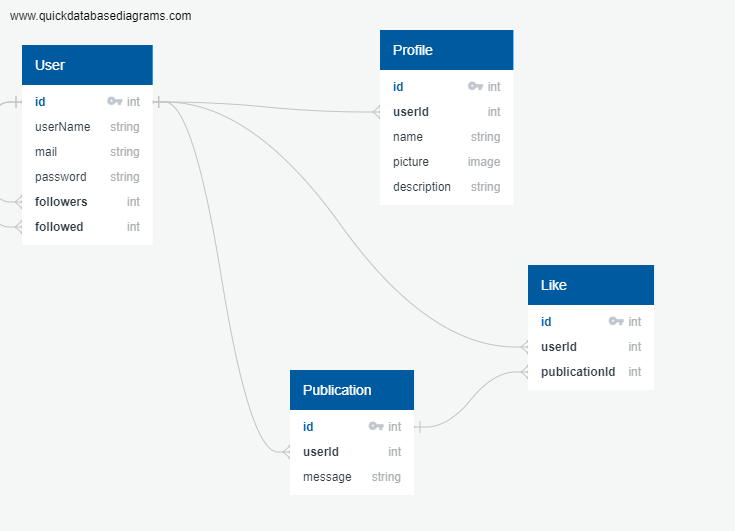
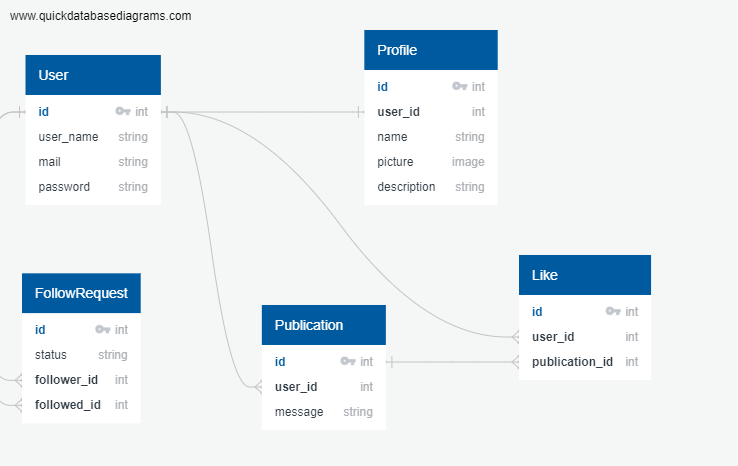
Finished all tables

diff --git a/src/models.py b/src/models.py
@@ -22,18 +22,30 @@ class User(Base):
     publications = relationship('Publication', back_populates='user')
     # Relation with lie, one to many (bidirectional)
     likes = relationship('Likes', back_populates='user')
+    # Relation with followRequest
+    followers = relationship('FollowRequest', backref='followed', foreign_keys='followed')
+    followeds = relationship('FollowRequest', backref='follower', foreign_keys='follower')
 
 class Profile(Base):
     __tablename__ = 'profile'
     # Columns for profile
     id = Column(Integer, primary_key=True)
-    # Relation with User, many to one (bidirectional)
-    user_id = Column(Integer, ForeignKey('user.id'))
-    user = relationship('User', back_populates='profile')
-    # Other attributes 
     name = Column(String(200))
     picture = Column(String(100))
     description = Column(String(1000))
+    # Relation with User, many to one (bidirectional)
+    user_id = Column(Integer, ForeignKey('user.id'))
+    user = relationship('User', back_populates='profile')
+
+class FollowRequest(Base):
+    __tablename__ = 'followrequest'
+    # Columns for followrequest
+    id = Column(Integer, primary_key=True)
+    status = Column(String(10))
+    # Relation with user as follower
+    follower_id = Column(Integer, ForeignKey('user.id'))
+    # Relation with user as followed
+    followed_id = Column(Integer, ForeignKey('user.id'))
 
 class Publication(Base):
     __tablename__ = 'publication'
